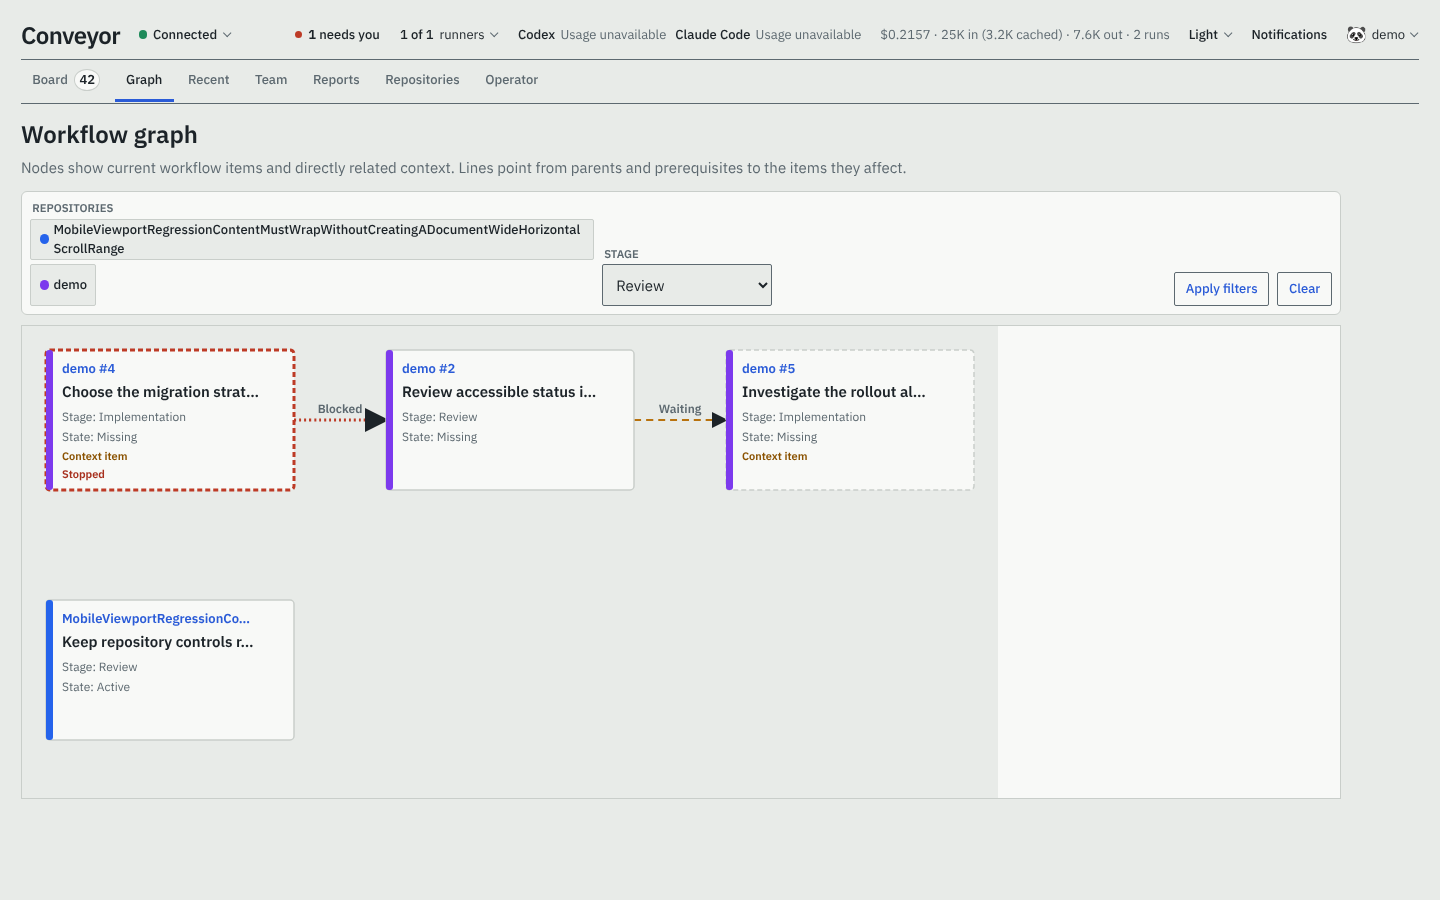
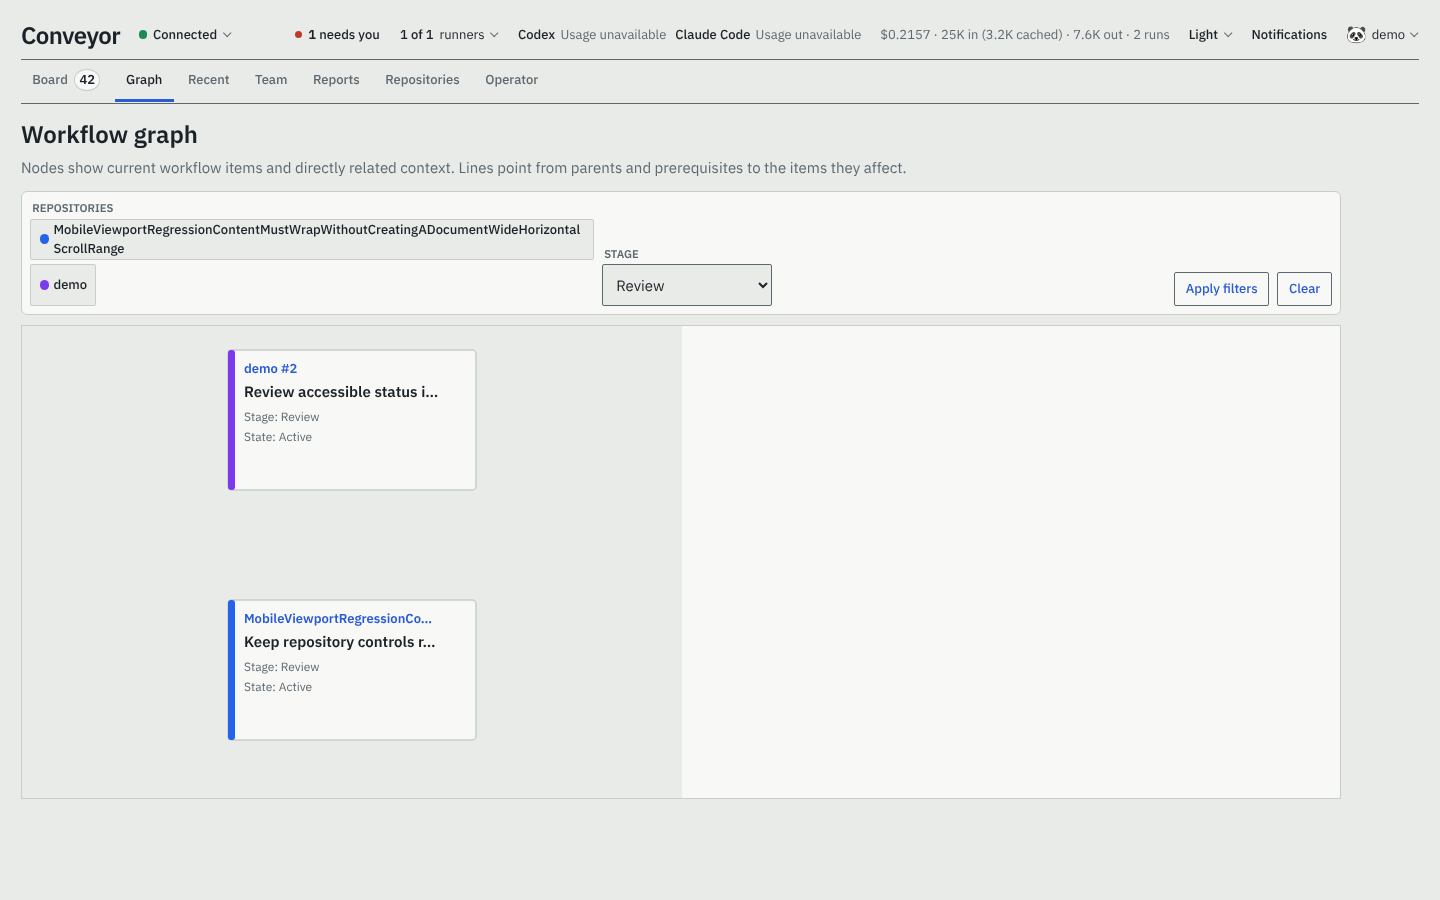
Demo screenshots keep the demo items in their seeded states now that absent items are not marked missing (#646)

Changed region(s): [[0.0312, 0.3733, 0.4062, 0.56], [0.0312, 0.6533, 0.3125, 0.8089], [0.4688, 0.3733, 0.625, 0.56]]

diff --git a/scripts/regenerate-screenshots.ts b/scripts/regenerate-screenshots.ts
@@ -348,7 +348,7 @@ async function seedDemo(home: string): Promise<void> {
       },
       {
         ...issue(5, "Investigate the rollout alert", "implementation"),
-        labels: ["conveyor", "conveyor:implementation", "conveyor:blocked"],
+        labels: ["conveyor", "conveyor:implementation", "conveyor:paused"],
       },
     ];
     const phoneOverflowIssue = {
@@ -417,7 +417,7 @@ async function seedDemo(home: string): Promise<void> {
     });
     store.setIssueProjection("demo#5", {
       stage: "implementation",
-      state: "blocked",
+      state: "paused",
       warning: "Investigating the rollout alert",
     });
     store.setIssueProjection(phoneOverflowIssue.id, {
@@ -1098,7 +1098,7 @@ async function main(): Promise<void> {
       "Ship a reliable dashboard overview",
     ]);
     await expectReachableElement(page.locator("[data-sticky-filter-summary]"), "Sticky filter summary");
-    await capture(page, baseUrl, "graph", "/graph?stage=review", ["Workflow graph", "Blocked"]);
+    await capture(page, baseUrl, "graph", "/graph?stage=review", ["Workflow graph"]);
     await page.locator(".graph-svg").waitFor({ state: "visible", timeout: 10_000 });
     await capture(page, baseUrl, "repositories", "/repositories", [
       "Repositories",
